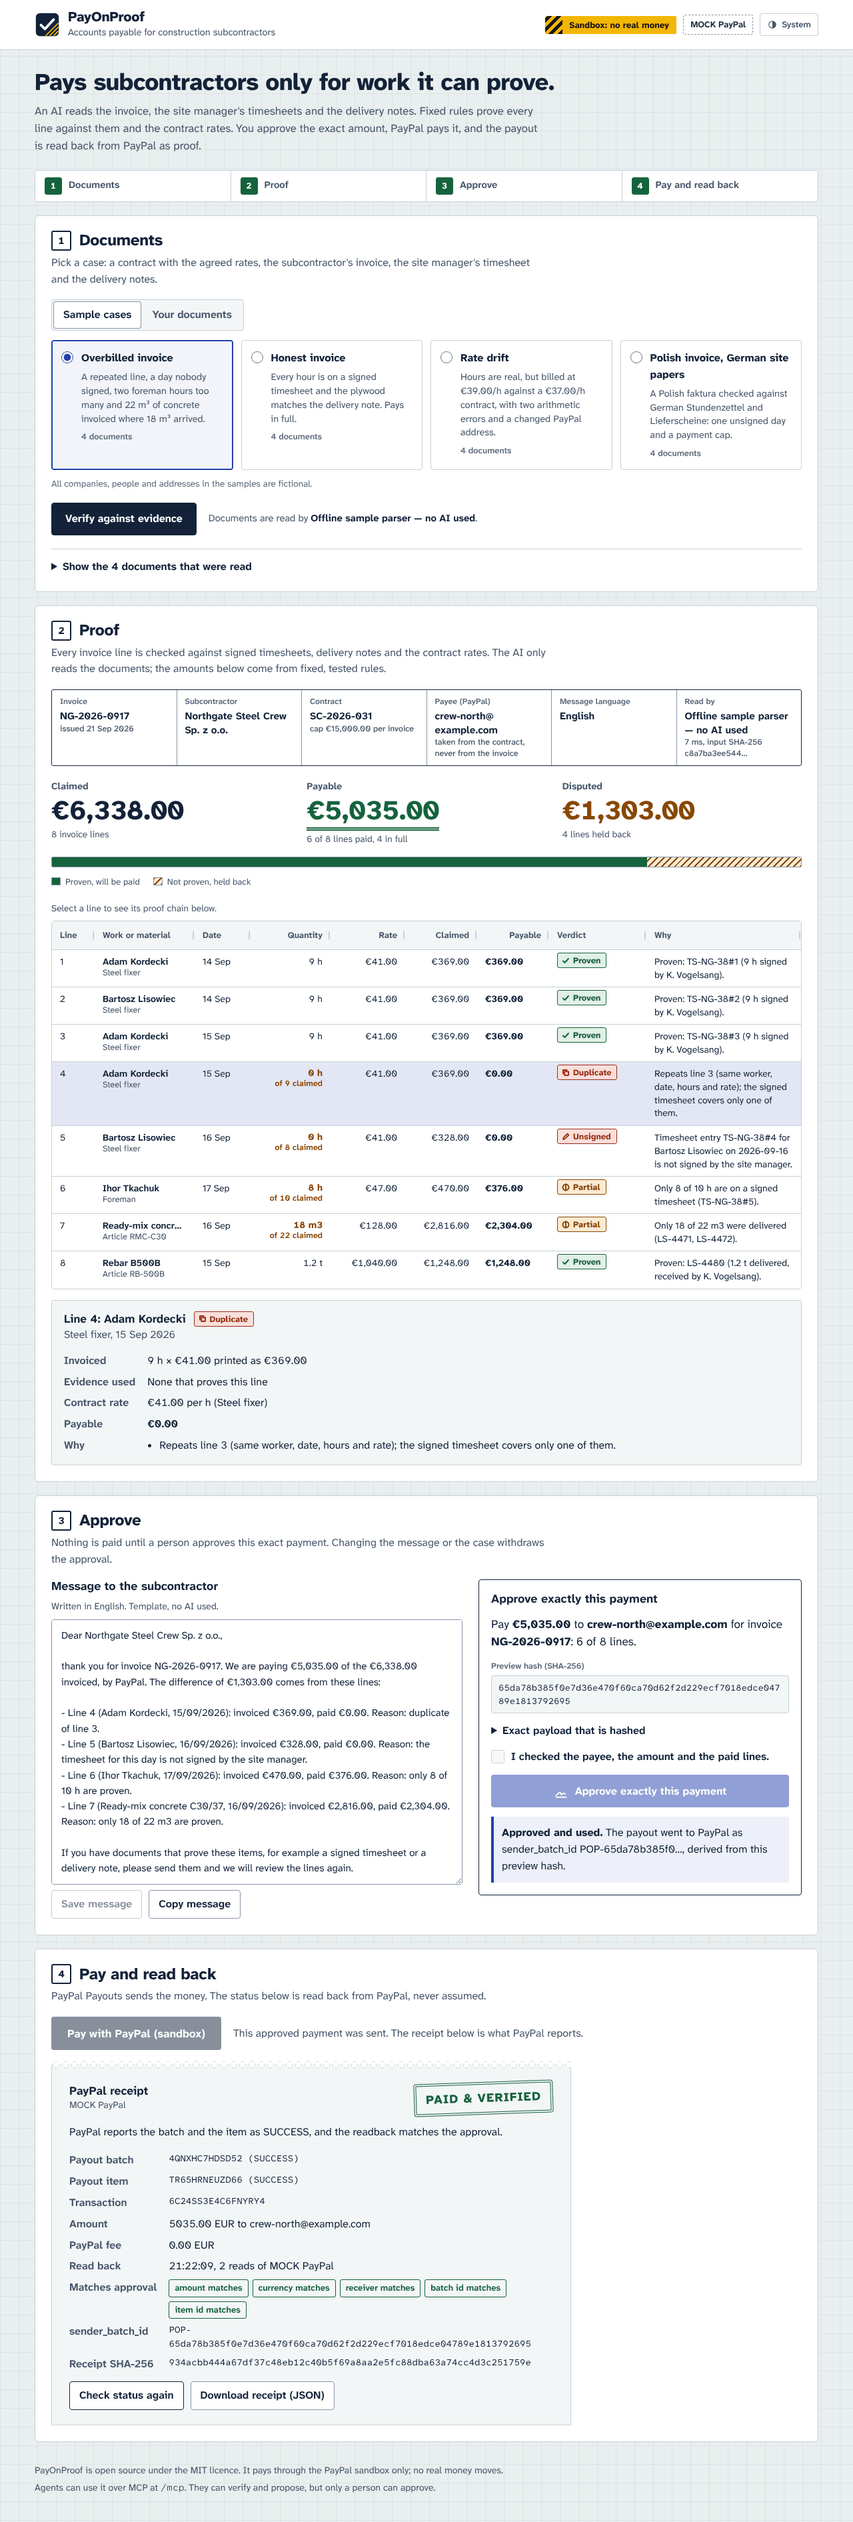
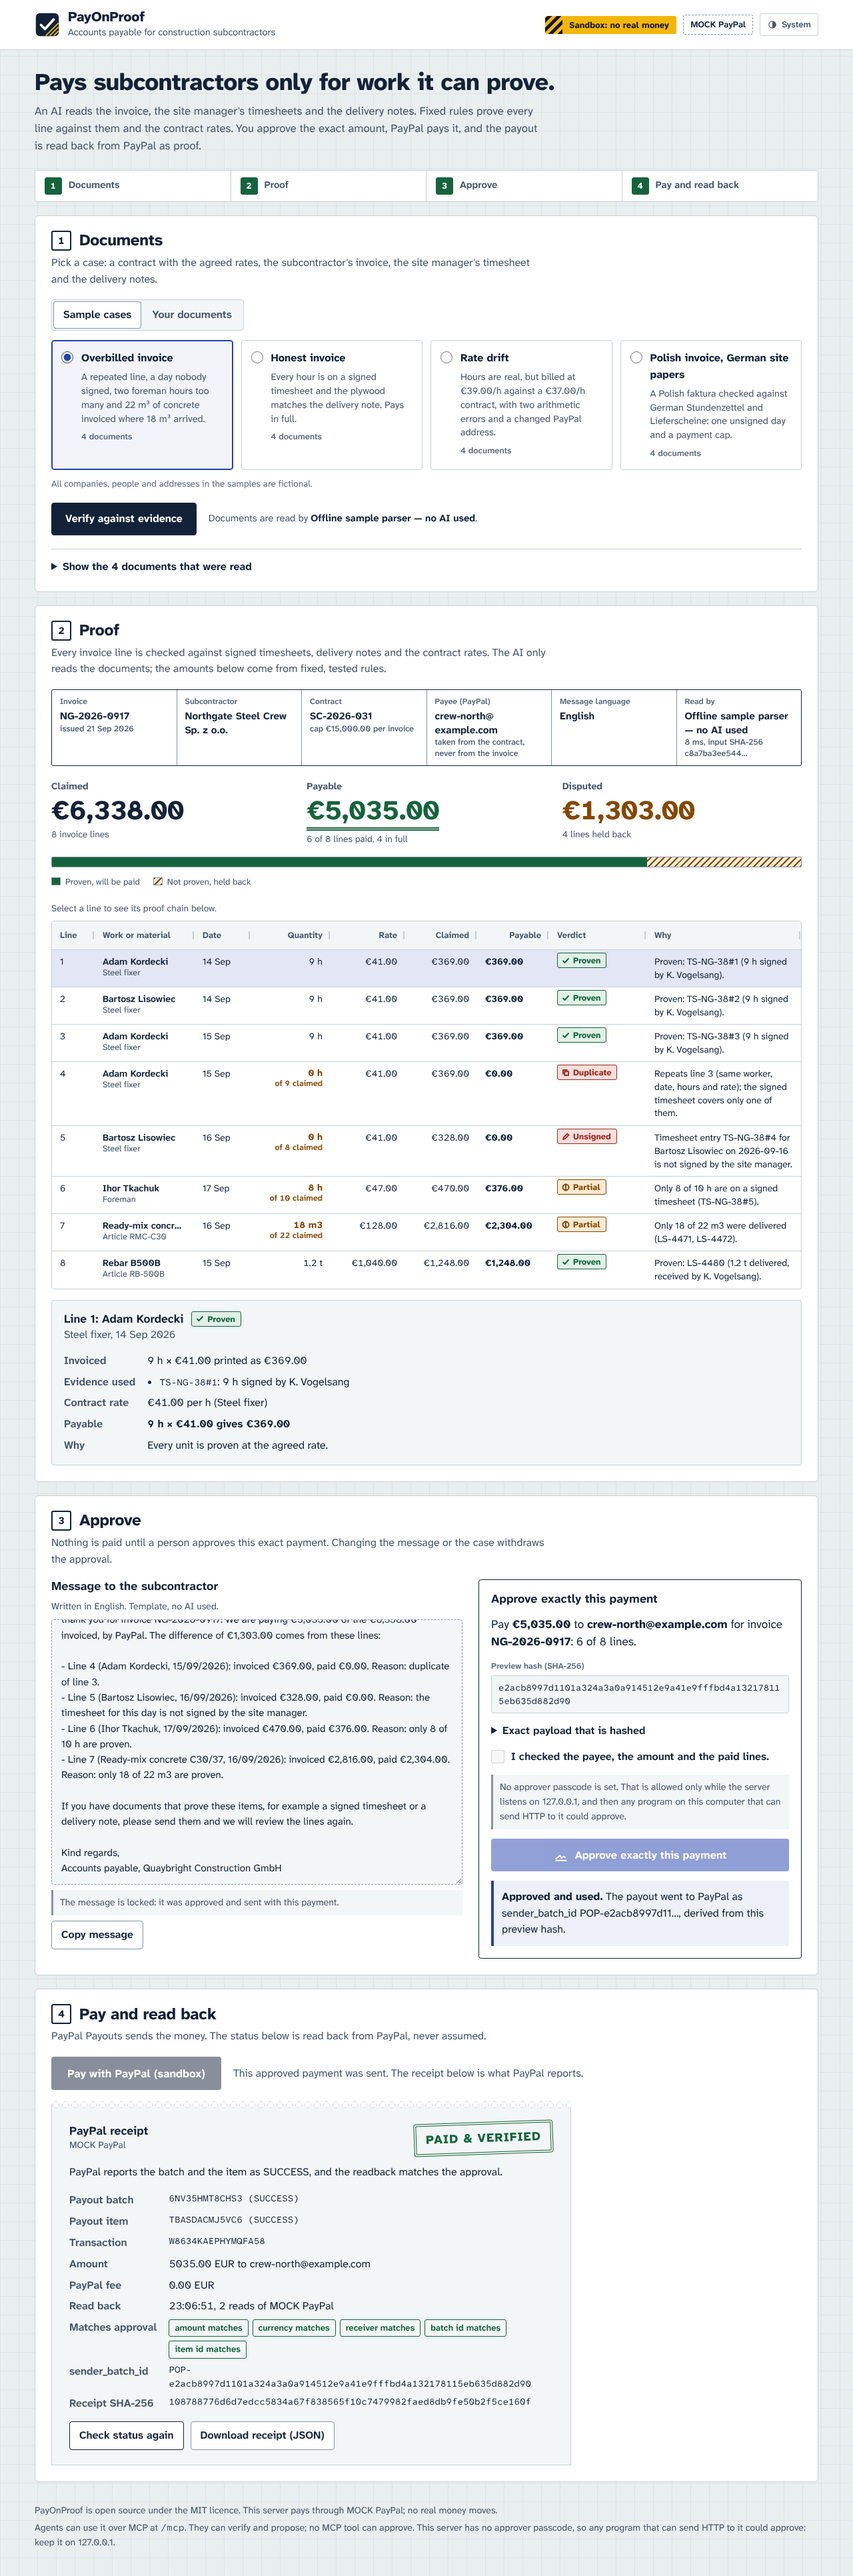
Bring the README in line with the fixes and refresh the screenshots
The README diagram now shows the approver passcode and the paid-invoice
ledger; the API table mentions the ledger mode in /health, the "Cannot
verify" answer of /api/analyze and the 409 on /api/message after payment;
"runs on Render" becomes "is set up to deploy on Render", since no
deployment is linked (D11); the test overview lists the new coverage.

docs/img was regenerated with `npm run e2e -- --update-docs` and checked
by eye: same flows, plus the locked message, the no-passcode note in the
approval panel and the new footer wording.

Claude-Session: https://claude.ai/code/session_01Rq1R9HvFkixjDtooYYBsUK

diff --git a/README.md b/README.md
@@ -6,7 +6,7 @@ AI reads the messy documents. A deterministic engine proves every invoice line a
 
 ![Proof view: claimed €6,338.00, payable €5,035.00, every line with its verdict](docs/img/desktop-light-proof.png)
 
-Built for the PayPal AI Hackathon (Best Use of PayPal + AI, agentic commerce) and the Nebius × NVIDIA Global AI Hackathon (Best Apps and Agents). Uses the PayPal developer platform (Payouts, sandbox), NVIDIA Nemotron through Nebius Token Factory (or Gemini, or any OpenAI-compatible model), AG Grid Community and runs on Render.
+Built for the PayPal AI Hackathon (Best Use of PayPal + AI, agentic commerce) and the Nebius × NVIDIA Global AI Hackathon (Best Apps and Agents). Uses the PayPal developer platform (Payouts, sandbox), NVIDIA Nemotron through Nebius Token Factory (or Gemini, or any OpenAI-compatible model), AG Grid Community, and is set up to deploy on Render (`render.yaml`).
 
 ---
 
@@ -58,7 +58,9 @@ With real sandbox credentials (see [PayPal sandbox setup](#paypal-sandbox-setup)
                                                    ▼
                               previewHash = SHA-256(canonical JSON of the proposal)
                                                    ▼
-                person approves in the UI ─► single-use token bound to previewHash, 10 min
+       person approves in the UI (approver passcode) ─► single-use token bound to previewHash, 10 min
+                                                   ▼
+     paid-invoice ledger reserves contract payee + invoice number (another case for it is blocked)
                                                    ▼
      PayPal Payouts  POST /v1/payments/payouts   sender_batch_id = "POP-" + previewHash
                                                    ▼
@@ -162,7 +164,7 @@ The AI steps run on an NVIDIA open model through [Nebius Token Factory](https://
 | `payonproof_verify_case` | Documents (or a `sampleId`) in, verdicts and a `caseId` out |
 | `payonproof_propose_payment` | Returns the exact preview, its `previewHash`, status `AWAITING_HUMAN_APPROVAL` and an `approvalUrl` for the person. An optional `messageText` replaces the message only if it passes the AI fact check (else `MESSAGE_FACT_CHECK_FAILED` with what is missing); it withdraws any approval, so the tool is not idempotent |
 | `payonproof_pay_approved` | Pays only with a valid approval token from the person; without one it returns `HUMAN_APPROVAL_REQUIRED` |
-| `payonproof_payout_status` | Reads the payout back from PayPal and returns the receipt |
+| `payonproof_payout_status` | Reads the payout back from PayPal and returns the receipt (a readback younger than 10 s is reused) |
 
 There is no approval tool, and no tool accepts the approver passcode. An agent verifies and proposes, hands the person the `approvalUrl`, the person approves in the page (with the approver passcode) and gives the agent the single-use token (**Copy token for an MCP agent**), and the agent pays. What keeps an agent from approving by itself is the passcode, not MCP: an agent that also has a plain HTTP tool could call `/api/approve` directly, so on a server without a passcode (allowed only on 127.0.0.1, see [Safety model](#safety-model)) it could approve. Try it with the MCP Inspector (`npx @modelcontextprotocol/inspector`, transport Streamable HTTP, URL `http://127.0.0.1:4410/mcp`, connected through the Inspector's proxy). Set `MCP_BEARER_TOKEN` to require `Authorization: Bearer …` on `/mcp`.
 
@@ -170,12 +172,12 @@ There is no approval tool, and no tool accepts the approver passcode. An agent v
 
 | Method and path | Purpose |
 | --- | --- |
-| `GET /health` | Liveness, AI and PayPal mode, MCP protocol version |
+| `GET /health` | Liveness, AI and PayPal mode, where the paid-invoice ledger lives (`file` or `memory`), MCP protocol version |
 | `GET /api/config` | What the UI may know: AI label, PayPal mode, approval settings (no secrets) |
 | `GET /api/cases` | The bundled sample cases with their documents |
-| `POST /api/analyze` | `{sampleId}` or `{documents: [{type, name, text}]}`: extract, verify, draft the message, build the proposal |
+| `POST /api/analyze` | `{sampleId}` or `{documents: [{type, name, text}]}`: extract, verify, draft the message, build the proposal (if a document cannot be read, only the reason is returned: no verdicts, no proposal) |
 | `GET /api/cases/:id` | A case as shown in the UI |
-| `POST /api/message` | `{caseId, text}`: replace the message (new previewHash, approvals withdrawn) |
+| `POST /api/message` | `{caseId, text}`: replace the message (new previewHash, approvals withdrawn); refused once the payment was sent (`409 ALREADY_PAID`) |
 | `POST /api/approve` | `{caseId, previewHash, confirm: true, passcode}`: the human approval. Needs the approver passcode whenever `APPROVER_PASSCODE` is set (always on a reachable server); 20 wrong passcodes in 15 minutes lock it for everyone for 15 minutes (`429 APPROVALS_LOCKED`, with the time approvals reopen) |
 | `POST /api/pay` | `{caseId, approvalToken}`: pay through PayPal and read back; `409 INVOICE_ALREADY_PAID` when another case already sent this invoice |
 | `GET /api/payout/:id` | Read the payout back from PayPal again (never sends anything; a readback younger than 10 s is reused, so status requests cannot flood the PayPal app) |
@@ -219,7 +221,7 @@ Requires Node.js 22 or newer.
 
 ```bash
 npm install
-npm start            # 127.0.0.1:4410; offline AI; PayPal as configured in .env
+npm start            # 127.0.0.1:4410; AI and PayPal as configured in .env (offline without keys)
 npm run demo         # same, but with MOCK PayPal (no network at all)
 ```
 
@@ -242,7 +244,7 @@ npm run e2e          # real Chromium: picks a sample, approves, pays via MOCK Pa
 npm run e2e -- --update-docs   # the same, and it replaces the README screenshots in docs/img/
 ```
 
-The unit and integration tests cover every verdict and the rounding rules, the extraction validator (missing fields, numbers as strings, localised strings, negatives), the offline parser on all samples against fixtures in `test/fixtures/`, proposal hash stability and invalidation, approval single use, expiry and hash binding, the PayPal client against mocked responses (token, exact payout body and `sender_batch_id`, duplicate batch, 401 refresh, timeout to `UNKNOWN_AFTER_SEND` and reconciliation, rejections, readback), the MCP tools through a real MCP client (`HUMAN_APPROVAL_REQUIRED` without approval), the HTTP server (CSP, Host and Origin checks, limits) and the UI files. External APIs are only ever reached through an injectable `fetch`; tests use `127.0.0.1` only. The e2e script needs the Chromium build that matches the pinned `playwright-core` (`npx playwright-core install chromium` once, or `PLAYWRIGHT_BROWSERS_PATH` pointing at an existing install) and fails on console errors, CSP violations or horizontal scrolling at 390 px. It also walks the keyboard path past the grid, and checks the locked message after payment, the paid-invoice ledger, the "Cannot verify" state and the page without a server. Without `--update-docs` it never touches the tracked screenshots.
+The unit and integration tests cover every verdict and the rounding rules, who may sign a timesheet, the trade on the timesheet against the invoiced role, never paying more than a line or the invoice total, the extraction validator (missing fields, numbers as strings, localised strings, negatives), the offline parser on all samples against fixtures in `test/fixtures/`, the offline fallback for samples when the AI fails, the "Cannot verify" state, proposal hash stability and invalidation, approval single use, expiry and hash binding, the approver passcode boundary (refusal to start without it, the global lockout), the proxy client address, the paid-invoice ledger (two cases for one invoice, concurrent pays, release rules, atomic file, restart), the PayPal client against mocked responses (token, exact payout body and `sender_batch_id`, duplicate batch, 401 refresh, timeout to `UNKNOWN_AFTER_SEND` and reconciliation, rejections, readback and its reuse), the MCP tools through a real MCP client (`HUMAN_APPROVAL_REQUIRED` without approval, fact-checked agent messages), the HTTP server (CSP, Host and Origin checks, limits) and the UI files. External APIs are only ever reached through an injectable `fetch`; tests use `127.0.0.1` only. The e2e script needs the Chromium build that matches the pinned `playwright-core` (`npx playwright-core install chromium` once, or `PLAYWRIGHT_BROWSERS_PATH` pointing at an existing install) and fails on console errors, CSP violations or horizontal scrolling at 390 px. It also walks the keyboard path past the grid, and checks the locked message after payment, the paid-invoice ledger, the "Cannot verify" state and the page without a server. Without `--update-docs` it never touches the tracked screenshots.
 
 ## Project layout
 
